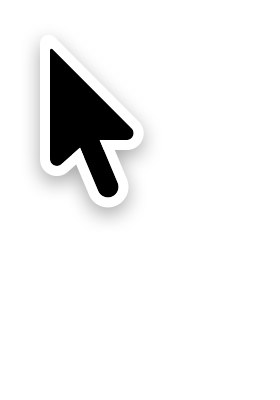
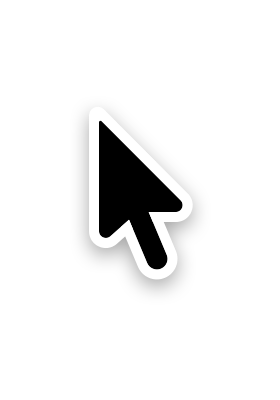
Release Cape Forge 1.0.2

Changed region(s): [[0.1143, 0.12, 0.7143, 0.75]]

diff --git a/docs/github-release-v1.0.2.md b/docs/github-release-v1.0.2.md
@@ -1,0 +1,14 @@
+# Cape Forge 1.0.2
+
+Cape Forge 1.0.2 improves the built-in default cursor preview alignment.
+
+## Highlights
+
+- Recentered the bundled default arrow cursor artwork inside its transparent canvas.
+- Fixed the default arrow preview appearing slightly shifted toward the upper-left.
+- Kept the cursor image canvas size unchanged so existing preview and export sizing behavior remains stable.
+
+## Notes
+
+- This release only changes the bundled default arrow cursor resource.
+- Custom cursor pack import, preview, and `.cape` export behavior are unchanged.